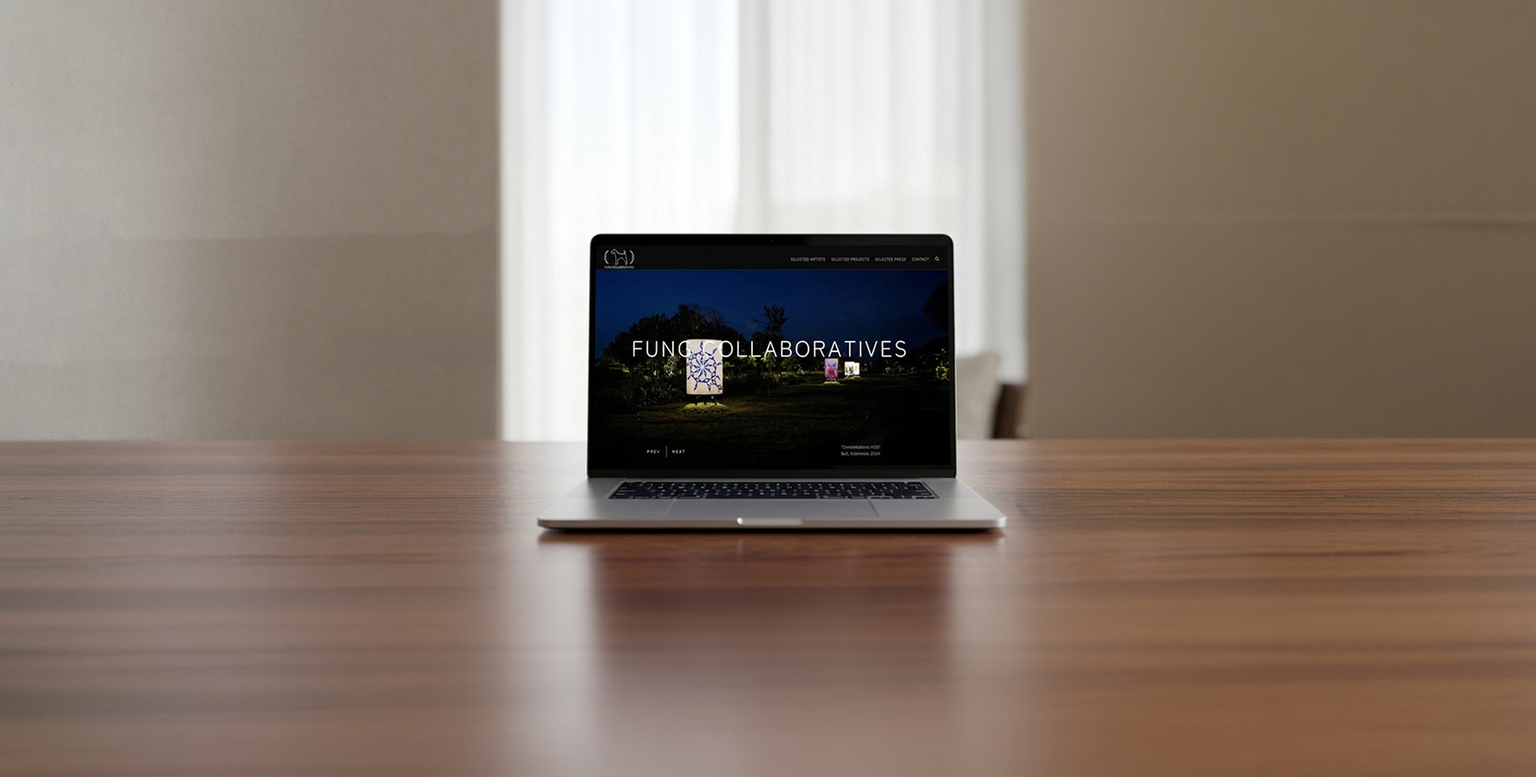
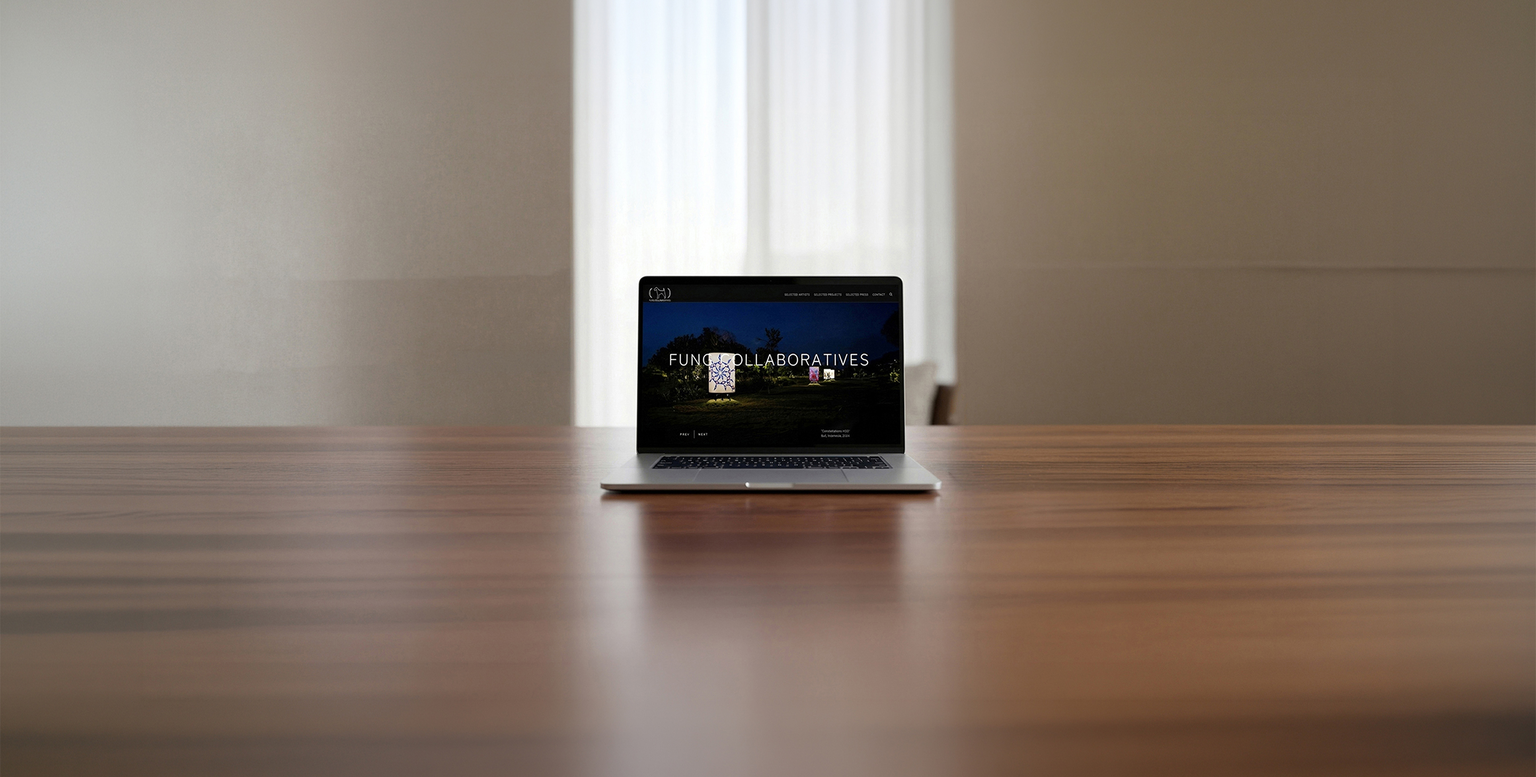
actually replaced slider image 4

diff --git a/index.html b/index.html
@@ -151,7 +151,7 @@
                   </div>
               </div>
 
-              <div class="slide" style="background-image: url('./assets/images/test_2_slider_image_4.jpg');">
+              <div class="slide" style="background-image: url('./assets/images/slider_image_4.jpg');">
                   <div class="caption">
                       <h3>FUNG COLLABORATIVES WEBSITE</h3>
                       <span>FUNG COLLABORATIVES</span>
